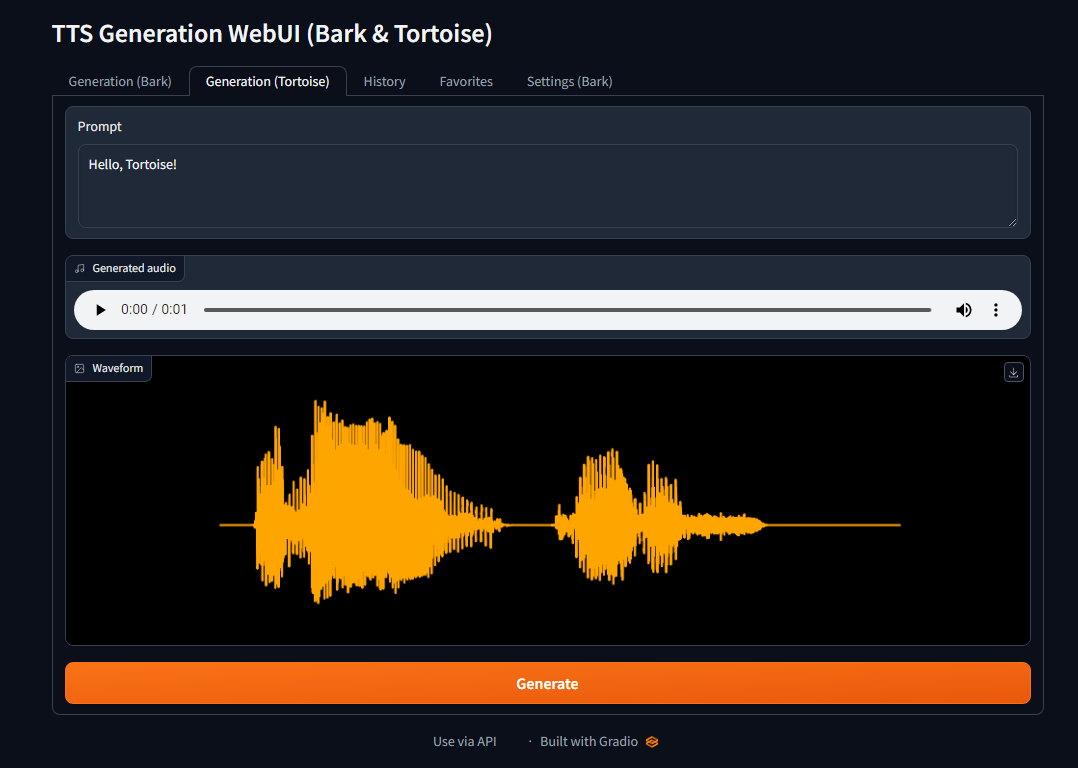
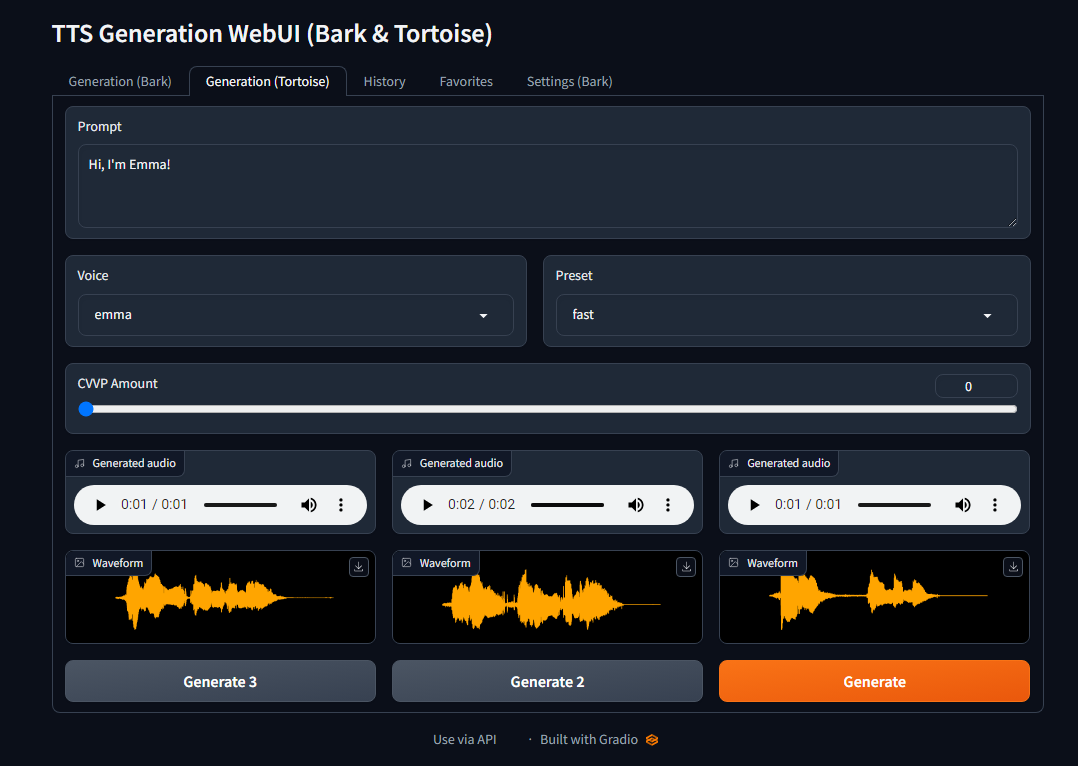
Tortoise improvements (#6)
* improve tortoise parameters and generation

diff --git a/generation_tab_bark.py b/generation_tab_bark.py
@@ -1,6 +1,6 @@
 import os
 from create_base_filename import create_base_filename
-from gen_tortoise import generate_tortoise_
+from gen_tortoise import generate_tortoise_n
 from get_date import get_date
 from get_speaker_gender import get_speaker_gender
 from models.bark.bark import SAMPLE_RATE, generate_audio
@@ -8,6 +8,7 @@ from scipy.io.wavfile import write as write_wav
 import json
 from models.bark.bark.generation import SUPPORTED_LANGS
 import gradio as gr
+from models.tortoise.tortoise.utils.audio import get_voices
 from save_waveform_plot import save_waveform_plot
 from model_manager import model_manager
 from config import config
@@ -38,6 +39,7 @@ def generate_choice_string(useV2, language, speaker_id):
 def get_history_prompt_verbal(history_prompt, use_last_generation):
     return "last_generation" if use_last_generation else (history_prompt or "None")
 
+
 def generate(prompt, history_setting, language=None, speaker_id=0, useV2=False, text_temp=0.7, waveform_temp=0.7):
     if not model_manager.models_loaded:
         model_manager.reload_models(config)
@@ -52,7 +54,8 @@ def generate(prompt, history_setting, language=None, speaker_id=0, useV2=False, 
         history_prompt = create_voice_string(
             language, speaker_id, useV2) if use_voice else None
 
-    history_prompt_verbal = get_history_prompt_verbal(history_prompt, use_last_generation)
+    history_prompt_verbal = get_history_prompt_verbal(
+        history_prompt, use_last_generation)
 
     print("Generating:", prompt, "history_prompt:", history_prompt_verbal,
           "text_temp:", text_temp, "waveform_temp:", waveform_temp,
@@ -114,7 +117,8 @@ def generation_tab_bark():
         with gr.Row():
             useV2 = gr.Checkbox(
                 label="Use V2", value=False, visible=False)
-            choice_string = gr.Markdown("Chosen voice: en_speaker_0, Gender: Unknown", visible=False)
+            choice_string = gr.Markdown(
+                "Chosen voice: en_speaker_0, Gender: Unknown", visible=False)
 
         languages = [lang[0] for lang in SUPPORTED_LANGS]
         languageRadio = gr.Radio(languages, type="index", show_label=False,
@@ -229,14 +233,60 @@ def test():
     generate(text_prompt, True, history_prompt)
     generate(text_prompt, False, history_prompt)
 
+css_tortoise = """
+.btn-sm {
+    min-width: 3em !important;
+    flex-grow: 0 !important;
+}
+"""
 
 def generation_tab_tortoise():
     with gr.Tab("Generation (Tortoise)"):
-        prompt_tortoise = gr.Textbox(label="Prompt", lines=3,
-                                     placeholder="Enter text here...")
+        prompt = gr.Textbox(label="Prompt", lines=3,
+                            placeholder="Enter text here...")
+
+        with gr.Row():
+            # with gr.Box():
+                # gr.Markdown("### Voice")
+            with gr.Row():
+                voice = gr.Dropdown(
+                    choices=["random"] + list(get_voices()),
+                    value="random",
+                    # show_label=False,
+                    label="Voice"
+                )
+                    # voice.style(container=False)
+                    # reload_voices = gr.Button("🔁", elem_classes="btn-sm")
+                    # reload_voices.style(size="sm")
+                    # def reload_voices_fn():
+                    #     choices = 
+                    #     print(choices)
+                    #     return [
+                    #         gr.Dropdown.update(choices=choices),
+                    #     ]
+                    # reload_voices.click(fn=reload_voices_fn, outputs=[voice])
+            preset = gr.Dropdown(label="Preset", choices=[
+                'ultra_fast',
+                'fast',
+                'standard',
+                'high_quality',
+            ], value="ultra_fast")
+        # Args:
+        # seed (int): The desired seed. Value must be within the inclusive range
+        #     `[-0x8000_0000_0000_0000, 0xffff_ffff_ffff_ffff]`. Otherwise, a RuntimeError
+        #     is raised. Negative inputs are remapped to positive values with the formula
+        #     `0xffff_ffff_ffff_ffff + seed`.
+        seed = gr.Textbox(label="Seed", lines=1,
+                          placeholder="Enter seed here...", value="None", visible=False)
+        cvvp_amount = gr.Slider(label="CVVP Amount",
+                                value=0.0, minimum=0.0, maximum=1.0, step=0.1)
 
         inputs = [
-            prompt_tortoise
+            prompt,
+            voice,
+            preset,
+            seed,
+            cvvp_amount
         ]
 
         with gr.Row():
@@ -256,17 +306,17 @@ def generation_tab_tortoise():
         outputs3 = [audio_3, image_3]
 
         with gr.Row():
-            generate3_button = gr.Button("Generate 3", visible=False)
-            generate2_button = gr.Button("Generate 2", visible=False)
+            generate3_button = gr.Button("Generate 3")
+            generate2_button = gr.Button("Generate 2")
             generate1_button = gr.Button("Generate", variant="primary")
 
-        prompt_tortoise.submit(fn=generate_tortoise_,
+        prompt.submit(fn=generate_tortoise_n(1),
+                      inputs=inputs, outputs=outputs)
+        generate1_button.click(fn=generate_tortoise_n(1),
                                inputs=inputs, outputs=outputs)
-        generate1_button.click(fn=generate_tortoise_,
-                               inputs=inputs, outputs=outputs)
-        generate2_button.click(fn=generate_tortoise_, inputs=inputs,
+        generate2_button.click(fn=generate_tortoise_n(2), inputs=inputs,
                                outputs=outputs + outputs2)
-        generate3_button.click(fn=generate_tortoise_, inputs=inputs,
+        generate3_button.click(fn=generate_tortoise_n(3), inputs=inputs,
                                outputs=outputs + outputs2 + outputs3)
 
         def show_closure(count):

diff --git a/gen_tortoise.py b/gen_tortoise.py
@@ -11,18 +11,17 @@ from models.tortoise.tortoise.api import TextToSpeech, MODELS_DIR
 from models.tortoise.tortoise.utils.audio import load_voices
 
 SAMPLE_RATE = 24_000
-
+OUTPUT_PATH='outputs/'
 
 def generate_tortoise(text="The expressiveness of autoregressive transformers is literally nuts! I absolutely adore them.",
                       voice='random',
                       preset='fast',
-                      output_path='results/',
                       model_dir=MODELS_DIR,
                       candidates=3,
                       seed=None,
                       cvvp_amount=.0):
 
-    os.makedirs(output_path, exist_ok=True)
+    os.makedirs(OUTPUT_PATH, exist_ok=True)
 
     tts = TextToSpeech(models_dir=model_dir)
 
@@ -43,26 +42,27 @@ def generate_tortoise(text="The expressiveness of autoregressive transformers is
 
     if isinstance(gen, list):
         for j, g in enumerate(gen):
-            filename = os.path.join(output_path, f'{voice}_{j}.wav')
-            torchaudio.save(filename, g.squeeze(0).cpu(), SAMPLE_RATE)
-            filenames.append(filename)
+            process_gen(text, voice, preset, candidates, seed, cvvp_amount, filenames, g, j)
     else:
-        audio_tensor = gen.squeeze(0).cpu()
+        process_gen(text, voice, preset, candidates, seed, cvvp_amount, filenames, gen)
+    return filenames
 
-        model = "tortoise"
-        date = get_date()
+def process_gen(text, voice, preset, candidates, seed, cvvp_amount, filenames, gen, j = 0):
+    audio_tensor = gen.squeeze(0).cpu()
 
-        base_filename = create_base_filename(voice, output_path, model, date)
-        filename = f'{base_filename}.wav'
-        torchaudio.save(filename, audio_tensor, SAMPLE_RATE)
-        audio_array = audio_tensor.t().numpy()
-        # Plot the waveform using matplotlib
-        filename_png = f'{base_filename}.png'
-        save_waveform_plot(audio_array, filename_png)
+    model = "tortoise"
+    date = get_date()
 
-        filename_json = f'{base_filename}.json'
+    base_filename = f"{create_base_filename(voice, OUTPUT_PATH, model, date)}__n{j}"
+    filename = f'{base_filename}.wav'
+    torchaudio.save(filename, audio_tensor, SAMPLE_RATE)
+    audio_array = audio_tensor.t().numpy()
+    filename_png = f'{base_filename}.png'
+    save_waveform_plot(audio_array, filename_png)
 
-        metadata = {
+    filename_json = f'{base_filename}.json'
+
+    metadata = {
             "text": text,
             "voice": voice,
             "preset": preset,
@@ -73,18 +73,19 @@ def generate_tortoise(text="The expressiveness of autoregressive transformers is
             "filename_png": filename_png,
             "filename_json": filename_json,
         }
-        import json
-        with open(filename_json, 'w') as f:
-            json.dump(metadata, f)
+    import json
+    with open(filename_json, 'w') as f:
+        json.dump(metadata, f)
 
-        filenames.extend((filename, filename_png))
-    return filenames
+    filenames.extend((filename, filename_png))
 
-def generate_tortoise_(prompt):
-    return generate_tortoise(text=prompt,
-                             voice="random",
-                             output_path="outputs/",
-                             preset="ultra_fast",
-                             candidates=1,
-                             cvvp_amount=.0)
-
+def generate_tortoise_n(n):
+    def gen(prompt, voice="random", preset="ultra_fast", seed=None, cvvp_amount=.0):
+        return generate_tortoise(text=prompt,
+                        voice=voice,
+                        preset=preset,
+                        candidates=n,
+                        seed=seed if seed != "None" else None,
+                        cvvp_amount=cvvp_amount,
+                        )
+    return gen

diff --git a/server.py b/server.py
@@ -2,7 +2,7 @@ import setup_or_recover
 import dotenv_init
 import matplotlib
 import matplotlib.pyplot as plt
-from generation_tab_bark import generation_tab_tortoise, generation_tab_bark
+from generation_tab_bark import generation_tab_tortoise, generation_tab_bark, css_tortoise
 import gradio as gr
 import json
 from history_tab import favorites_tab, history_tab
@@ -59,9 +59,9 @@ def load_models(
     model_manager.reload_models(config)
     return gr.Button.update(value="Reload models", interactive=True)
 
+full_css = css_tortoise
 
-
-with gr.Blocks() as block:
+with gr.Blocks(css=full_css) as block:
     gr.Markdown("# TTS Generation WebUI (Bark & Tortoise)")
     generation_tab_bark()
     generation_tab_tortoise()

diff --git a/README.md b/README.md
@@ -21,6 +21,9 @@ This code requires the following dependencies:
 
 
 ## Changelog
+May 3:
+* Improved Tortoise UI: Voice, Preset and CVVP settings as well as ability to generate 3 results (https://github.com/rsxdalv/tts-generation-webui/pull/6)
+
 May 2 Update 2:
 * Added support for history recylcing to continue longer prompts manually
 
